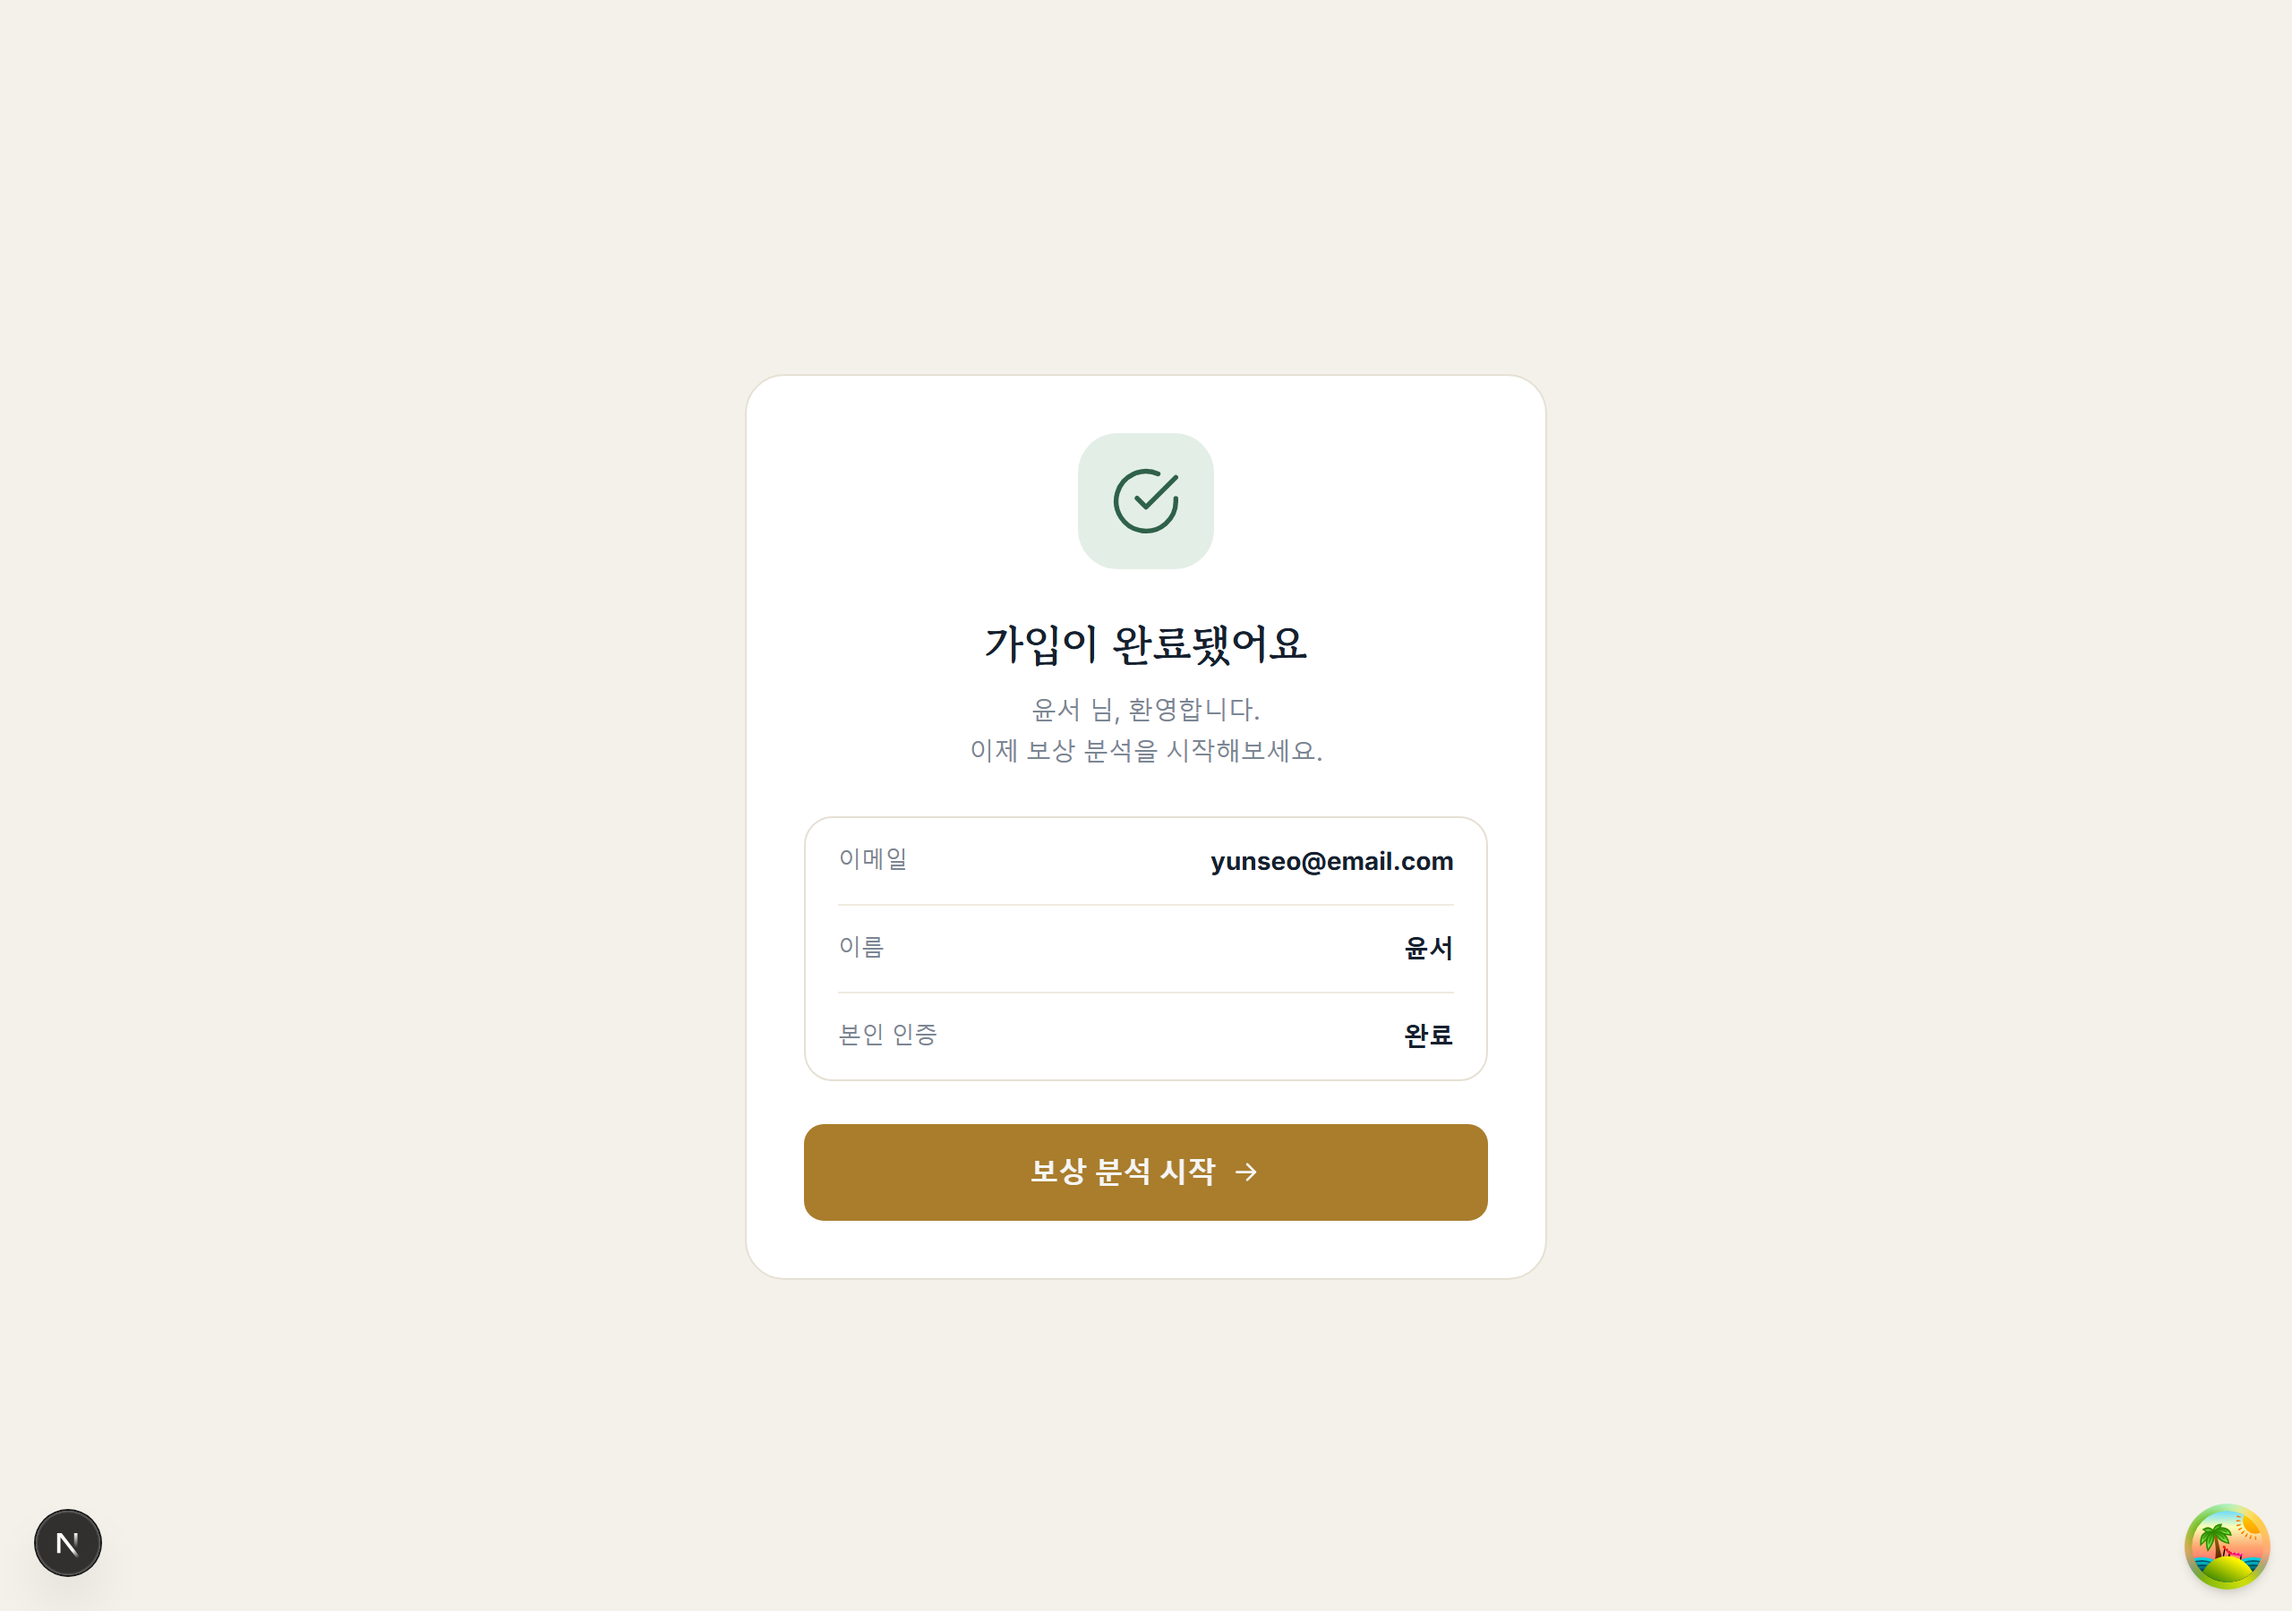
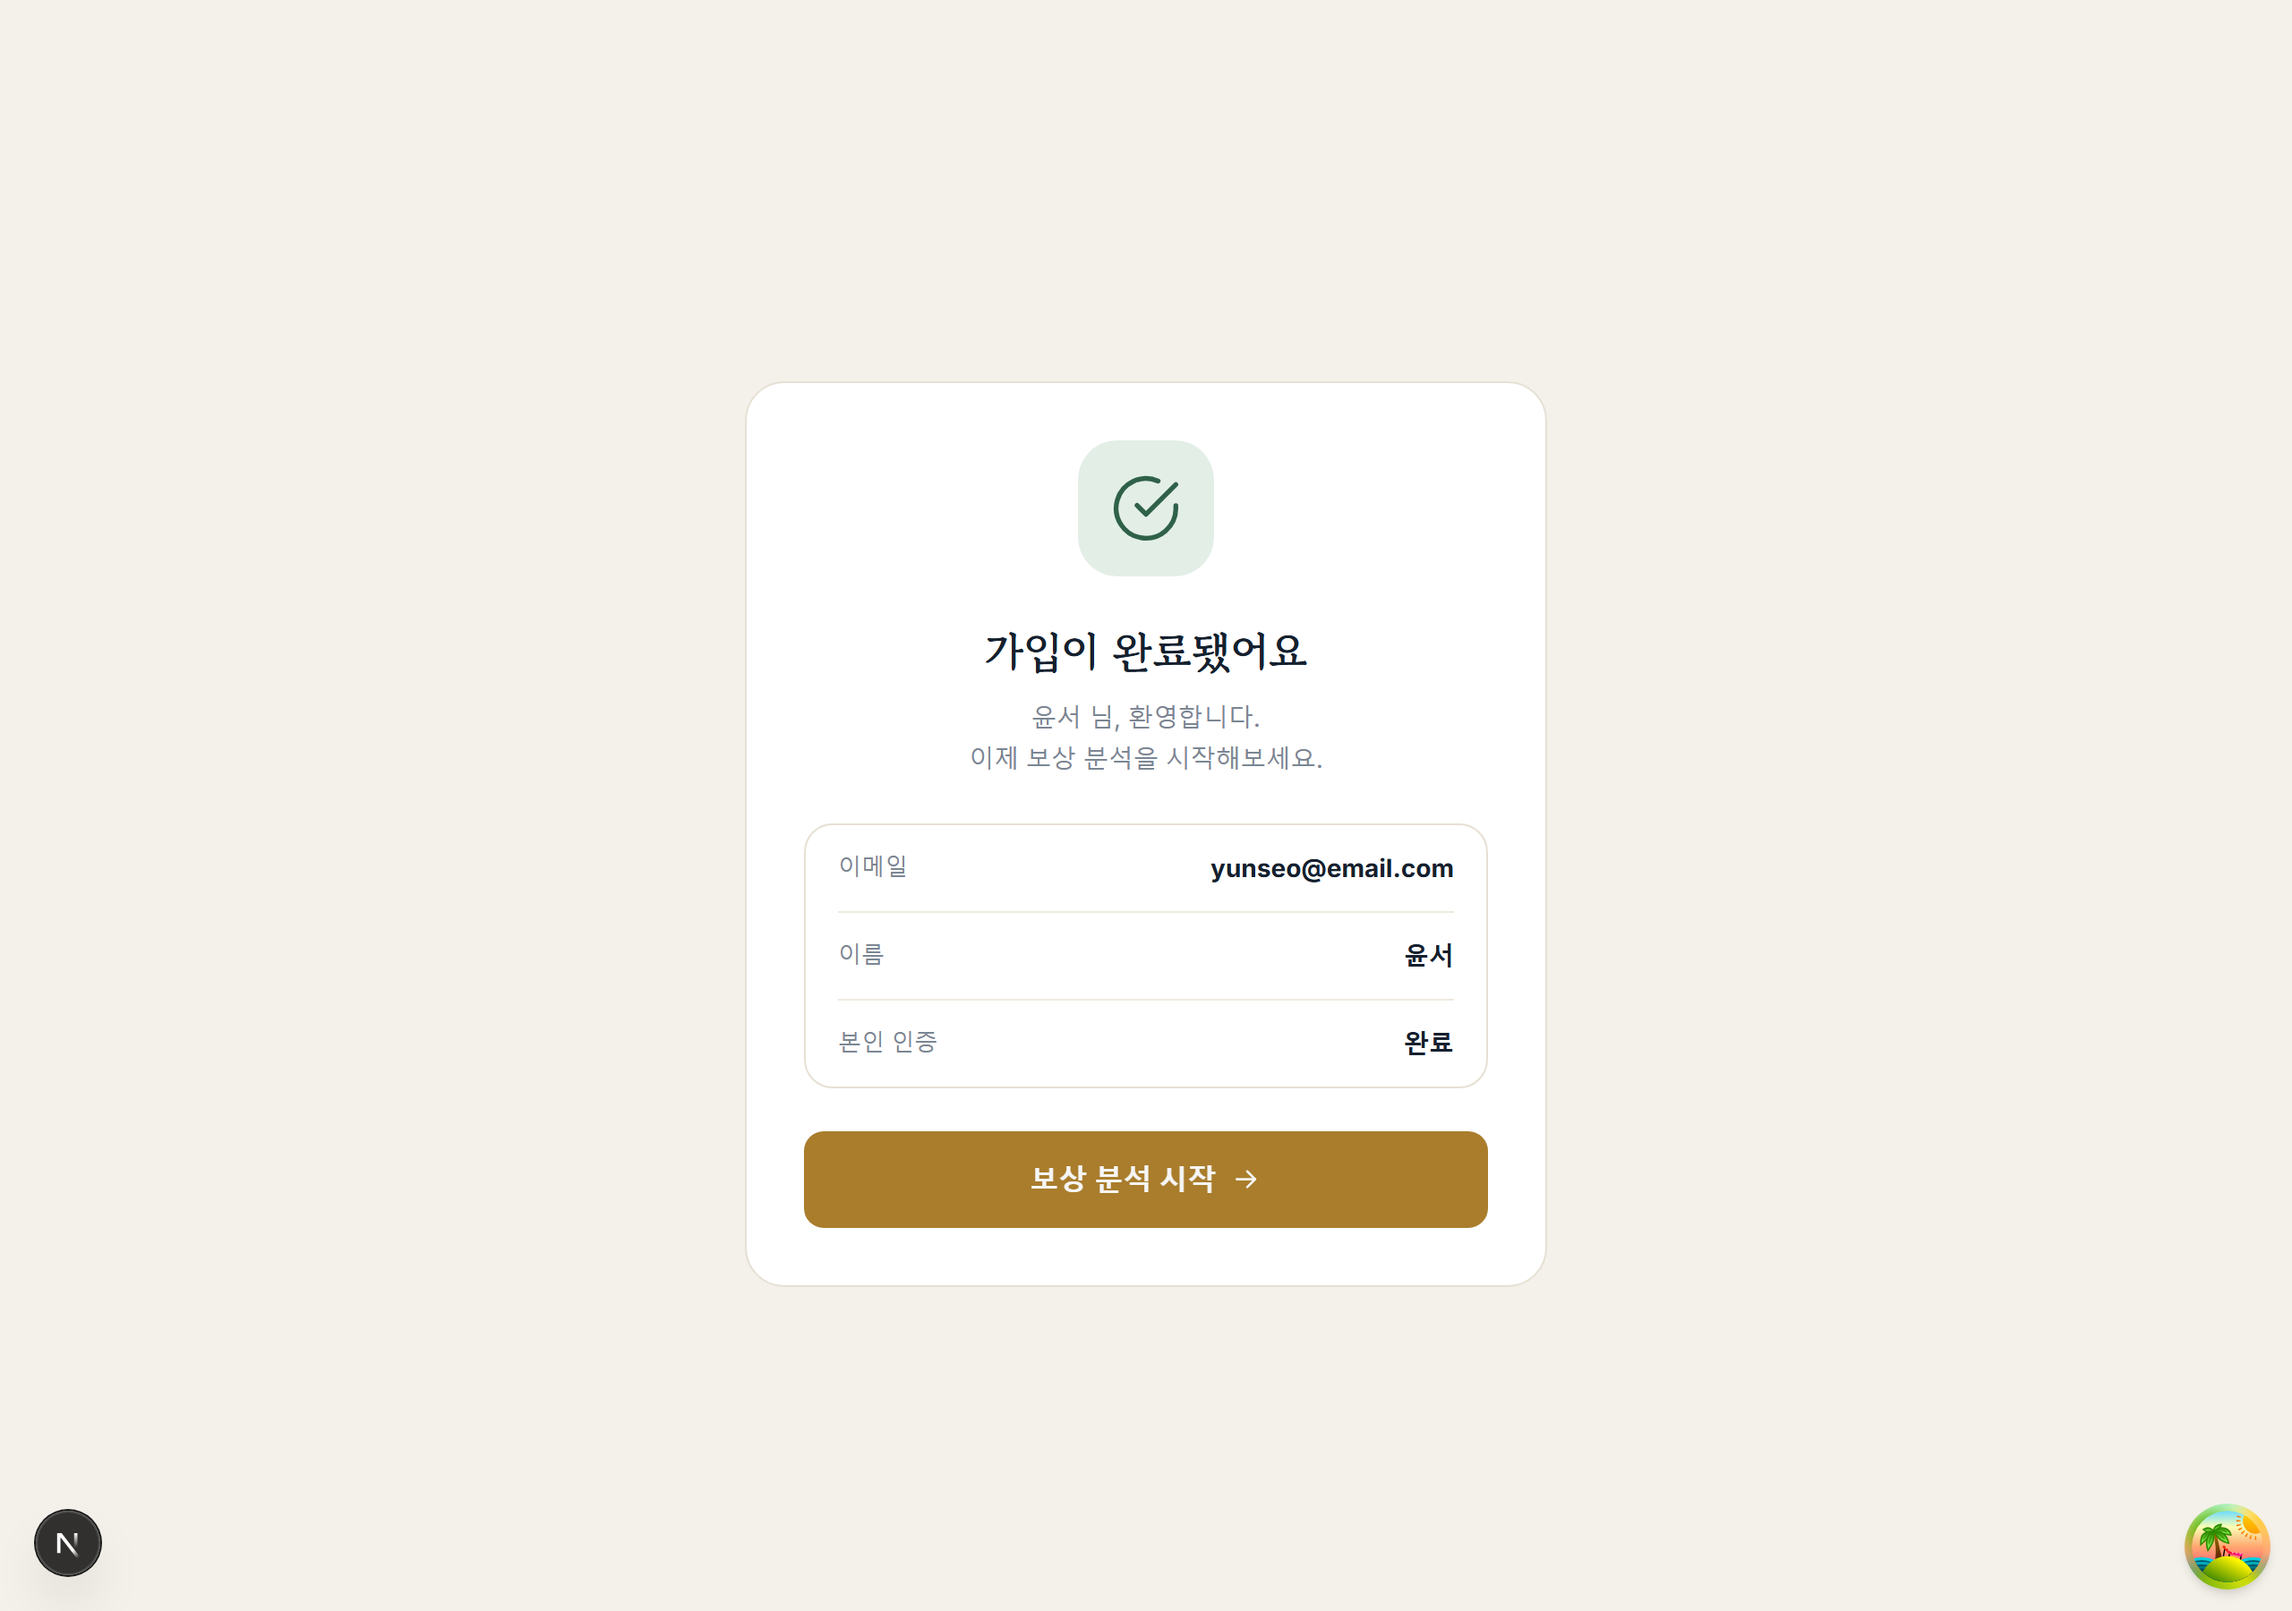
fix : 회원가입 진행바 모바일 화면 상단 고정
* 퍼널 페이지가 전체 화면 높이를 차지하도록 변경해 진행바를 상단에 고정
* 단계 카드는 남은 공간 중앙 배치 유지
* 화면 스크린샷 재캡처

diff --git a/apps/web/src/app/(auth)/signup/page.tsx b/apps/web/src/app/(auth)/signup/page.tsx
@@ -87,7 +87,7 @@ function SignupFunnel() {
   };
 
   return (
-    <div className="w-full">
+    <div className="flex min-h-dvh w-full flex-col pb-8 pt-6 sm:pt-10">
       {funnel.step !== "done" && (
         <SignupProgress
           current={funnel.stepNumber}
@@ -96,7 +96,8 @@ function SignupFunnel() {
         />
       )}
 
-      <div className="mt-6 rounded-card-lg border border-line bg-card p-6 sm:p-8">
+      <div className="mt-6 flex flex-1 flex-col justify-center">
+        <div className="rounded-card-lg border border-line bg-card p-6 sm:p-8">
         {funnel.step === "role" && (
           <RoleSelectStep
             selected={selectedUserType}
@@ -123,6 +124,7 @@ function SignupFunnel() {
             onStartAnalysis={() => router.push(CUSTOMER_DASHBOARD_PATH)}
           />
         )}
+        </div>
       </div>
 
       {showAdjusterNotice && (
